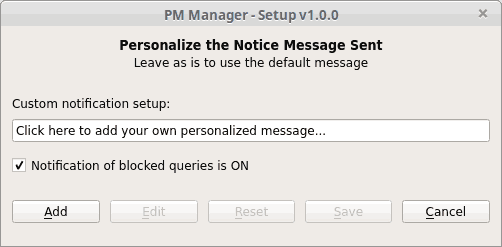
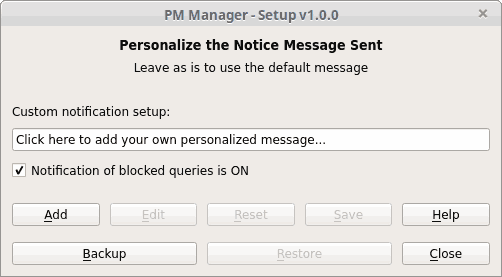
helpfile entries
* add entries for Backup and Restore

* add new screenshot for Options menu

diff --git a/pm-manager/help/pmm-help.html b/pm-manager/help/pmm-help.html
@@ -173,8 +173,11 @@
 					<li>On user context menu entries that allow <b>adding</b>, <b>removing</b>, <b>replacing</b> or <b>changing</b> the target user from a temporary to/or permanent whitelist.</li>
 					<li>A main UI dialog displaying a temporary and permanent user management and current refreshable <b>Channel Users</b> list<br> The main dialog also has control buttons and Options setup access button.</li>
 					<li>The options UI also has a checkbox for user to turn on or off notification of blocked messages</li>
+					<li>A static Backup and Restore functionality for permanent whitelist and main PM Manager configuration saving.</li>
 					<li>Comprehensive tooltips in all controls that show hints of what controls do.</li>
 					<li>Comprehensive in active window messages to help as visual confirmations.</li>
+					<li>Comprehensive support for keyboard access via Alt+"Key"</li>
+					<li>A comprehensive help file.</li>
 				</ul>
 			</td>
 		</tr>
@@ -244,7 +247,7 @@
 				<b>Whitelisted Users</b>
 			</td>
 			<td>
-				Highlight any user under this list, then click the left pointing arrow button <b>to remove the user from the whitelist</b>.
+				Highlight any user under this list, then click the left pointing arrow button <b>to remove the user from this whitelist</b>.
 			</td>
 		</tr>
 		<tr bgcolor="#EAEAEA">
@@ -344,7 +347,7 @@
 				<b>Reset</b>
 			</td>
 			<td>
-				Click this button to reset the currently saved message to default. (<b>Automated Message:</b> Uninvited PM's</u> are not being accepted.)
+				Click this button to reset the currently saved message to default. (Automated Message: <u>Uninvited PM's</u> are not being accepted.)
 			</td>
 		</tr>
 		<tr bgcolor="#EAEAEA">
@@ -357,10 +360,55 @@
 		</tr>
 		<tr bgcolor="#EAEAEA">
 			<td>
-				<b>Cancel</b>
+				<b>Help</b>
+			</td>
+			<td>
+				Click this button to access the built in help and documentation.
+			</td>
+		</tr>
+	</table>
+	<table width="100%" cellpadding="3" cellspacing="0" border="0">
+		<tr>
+			<td class='subsubtitle-table-cell'>
+				<div class='subsubtitle-text'>The <b>Backup and Restore</b> Options</div>
+			</td>
+		</tr>
+	</table>
+	<table width="100%" cellpadding="3" cellspacing="0" border="0">
+		<tr bgcolor="#EAEAEA">
+			<td>
+				<b>Backup</b>
+			</td>
+			<td>
+				Click this button to backup your current Whitelisted Users list and the <b>PM Manager Setup</b> configuration.
+			</td>
+		</tr>
+		<tr bgcolor="#EAEAEA">
+			<td>
+				<b>Restore</b>
+			</td>
+			<td>
+				Click this button to restore your current Whitelisted Users list and the <b>PM Manager Setup</b> configuration.
+			</td>
+		</tr>
+		<tr bgcolor="#EAEAEA">
+			<td>
+				<b>Close</b>
 			</td>
 			<td>
 				Click this button to cancel any unsaved changes and returns you to the main <b>PM Manager</b> dialog.
+			</td>
+		</tr>
+	</table>
+	<table width="100%" cellpadding="3" cellspacing="0" border="0">
+		<tr>
+			<td class='note-box'>
+				<b>Notes: </b>Most buttons are conditionally enabled/disabled in relation to their usage. Its important to note what you can do,<br>
+				The <b>Backup button</b>, is disabled until a initial backup has been made. Thereafter its always <b>ON</b> to enable you to <b>refresh</b> your current backed-up files.<br>
+				The <b>Restore button</b> is disabled until the Whitelisted Users list has been modified, and you can use the Restore function to reset your list to a previous backup.<br>
+				Because the Restore rule used to disable the button, you would be able to restore your Whitelisted Users list in case the main is empty or has less entries than the backup.<br>
+				Temporary Users are not backed-up at this time.<br>
+				If you're interested in ensuring your Whitelist and Configuration is kept safe and up-to-date, do remember to make backups regularly. ;)
 			</td>
 		</tr>
 	</table>
@@ -373,7 +421,7 @@
 		<tr bgcolor="#EAEAEA">
 			<td>
 				I would like to thank the-j0k3r for the alpha phase testing and helping to identify bugs and suggesting/helped implement them.<br>
-				Also the general monkeywork with HTML/CSS/GitHub in the spirit of opensource.
+				Also the Backup and Restore feature and general monkeywork with HTML/CSS/GitHub in the spirit of opensource.
 			</td>
 		</tr>
 		<tr bgcolor="#EAEAEA">
